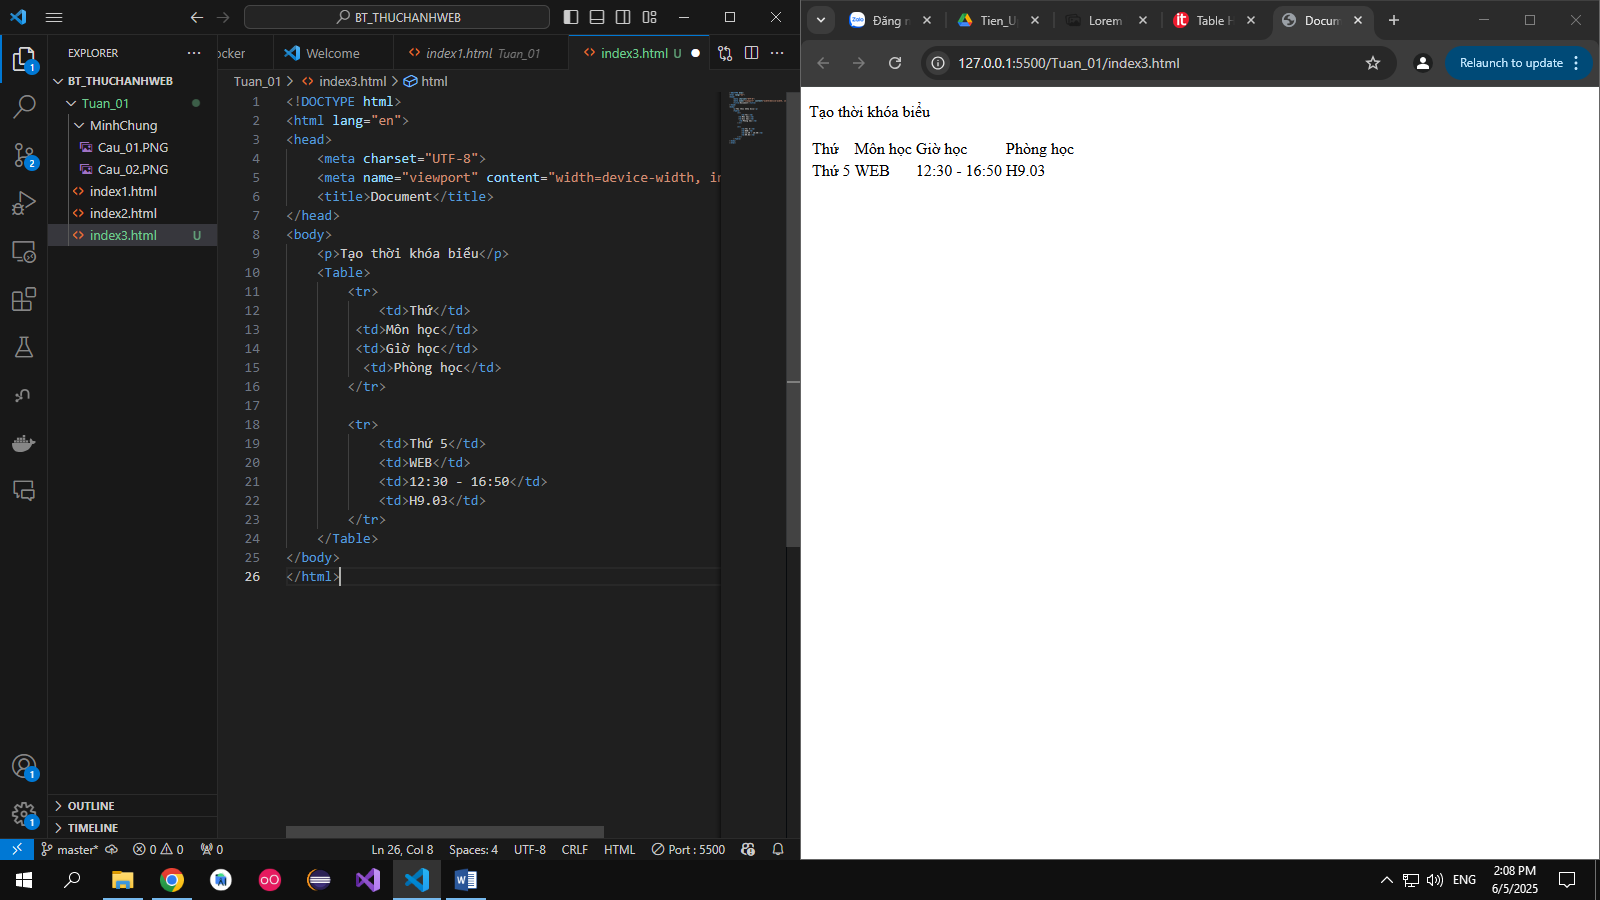
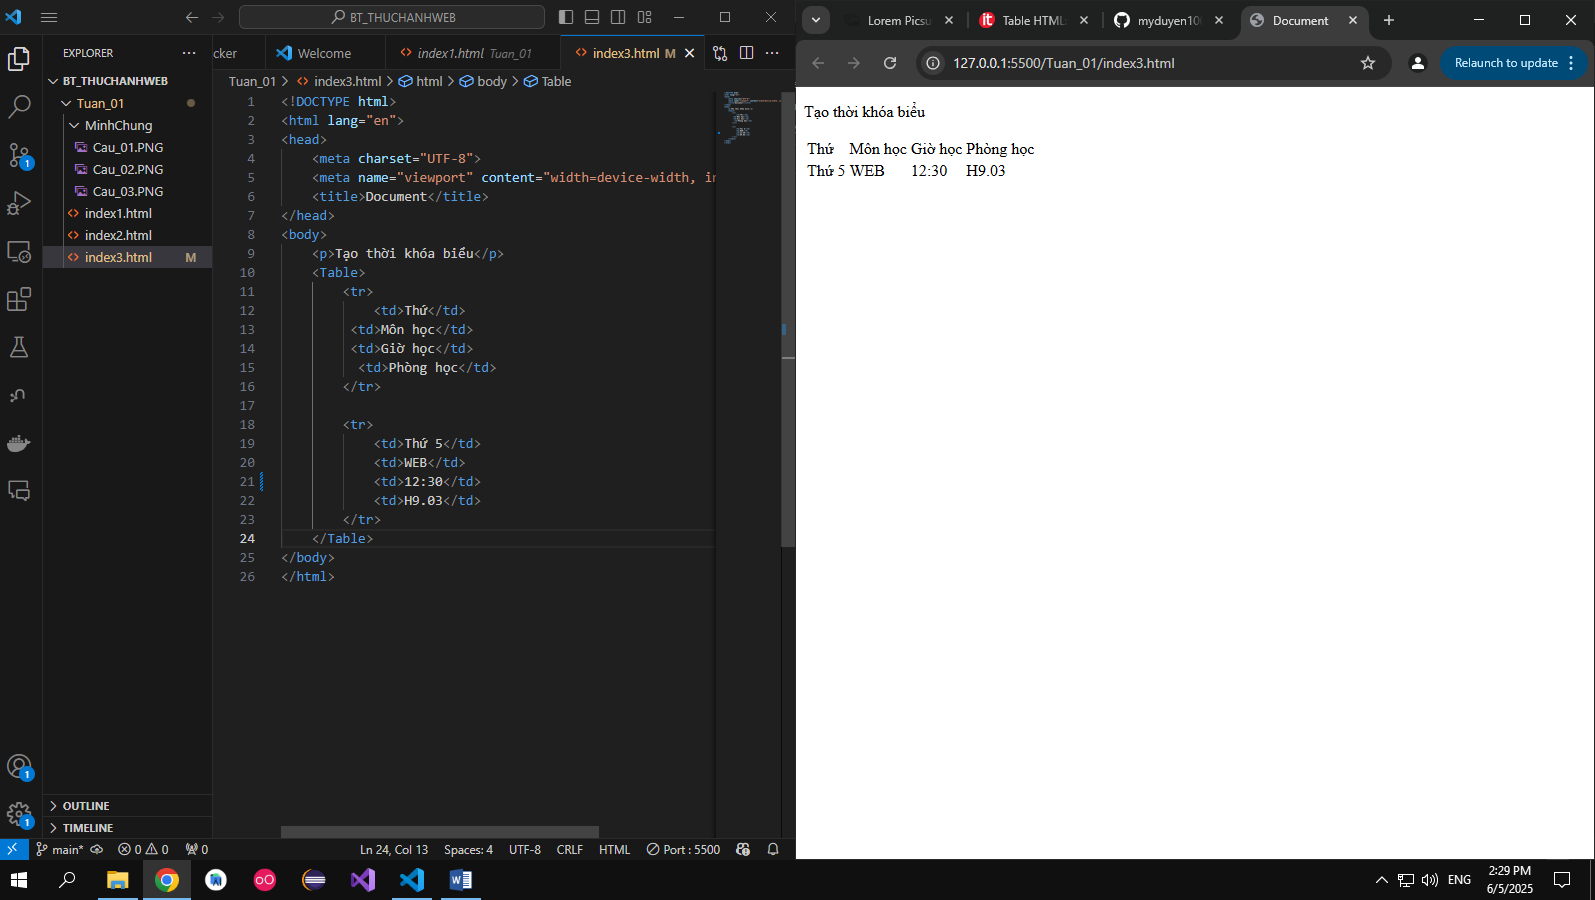
add folder tuan1 and index.html_mc cau3

diff --git a/Tuan_01/index3.html b/Tuan_01/index3.html
@@ -18,8 +18,7 @@
         <tr>
             <td>Thứ 5</td>
             <td>WEB</td>
-            <td>12:30 - 16:50</td>
-            
+            <td>12:30</td>
             <td>H9.03</td>
         </tr>
     </Table>
